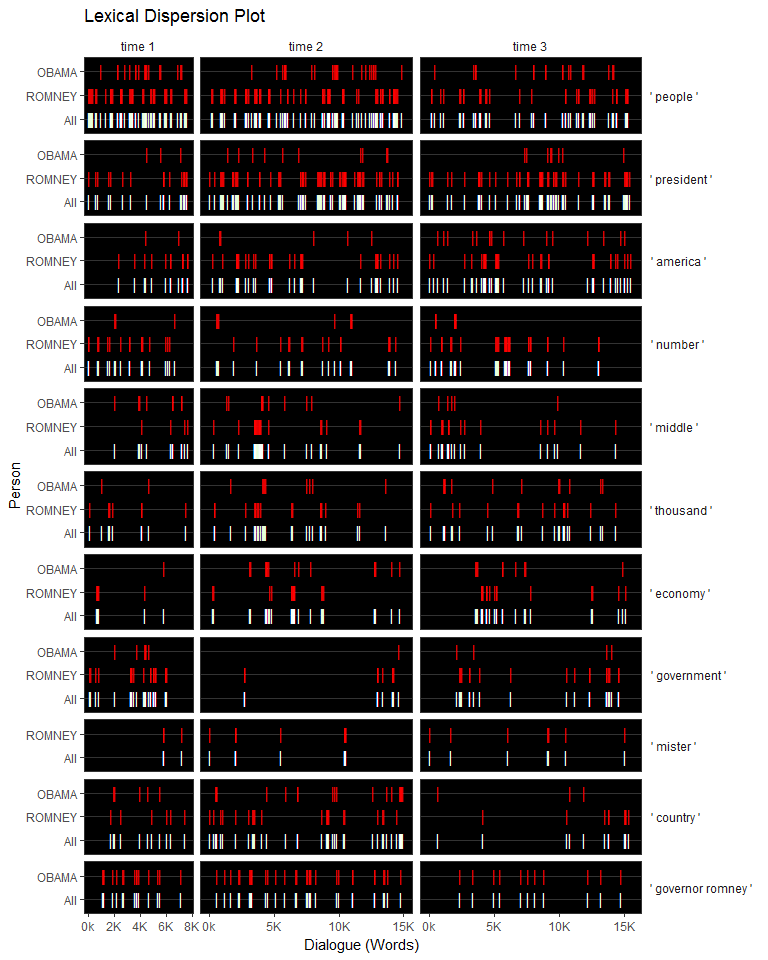
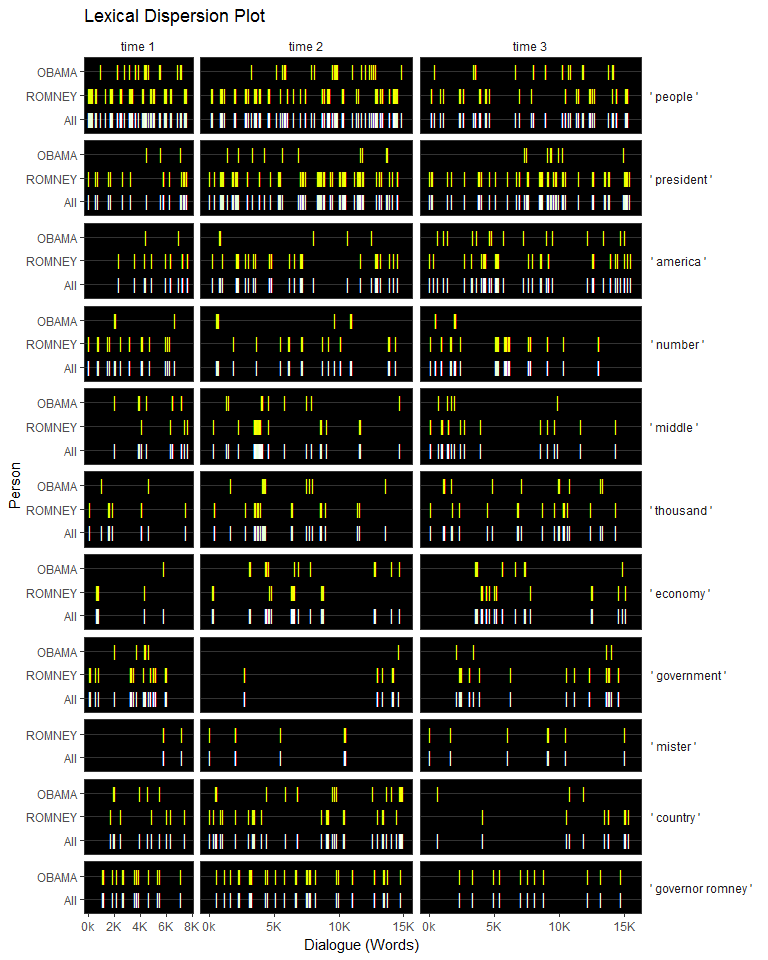
changed colors

diff --git a/README.md b/README.md
@@ -81,8 +81,8 @@ Lexical Dispersion
         lexical_dispersion(text.var = dialogue, term.list = wrds, 
             grouping.var = person, rm.var = time
         ) %>%
-        plot(, bg.color = "black", color = "red", 
-            total.color = "white", horiz.color="grey20"
+        plot(bg.color = "black", grouping.var = list(fam.aff, sex),
+            color = "yellow", total.color = "white", horiz.color="grey20"
         )
 
 ![](tools/figure/unnamed-chunk-6-1.png)
